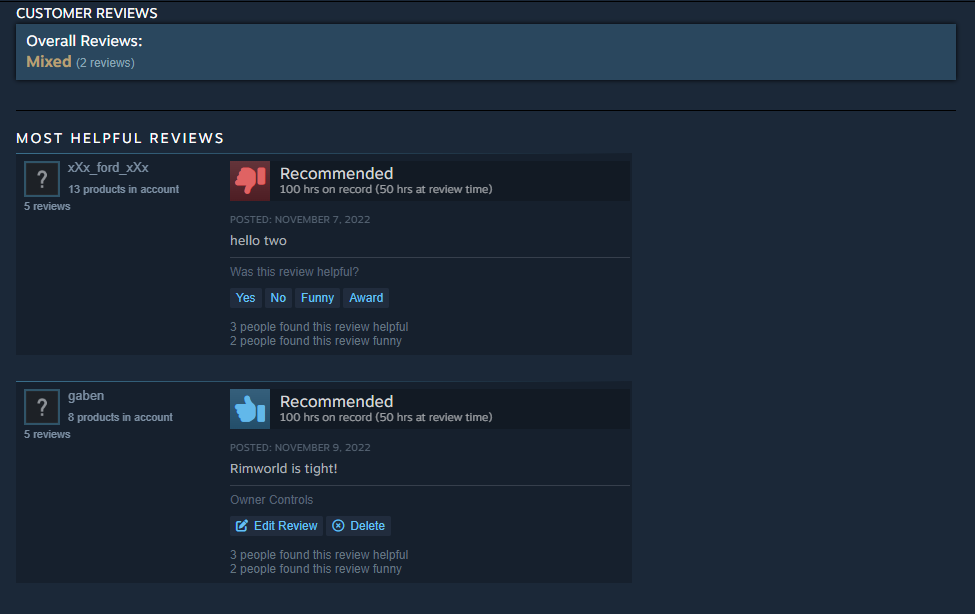
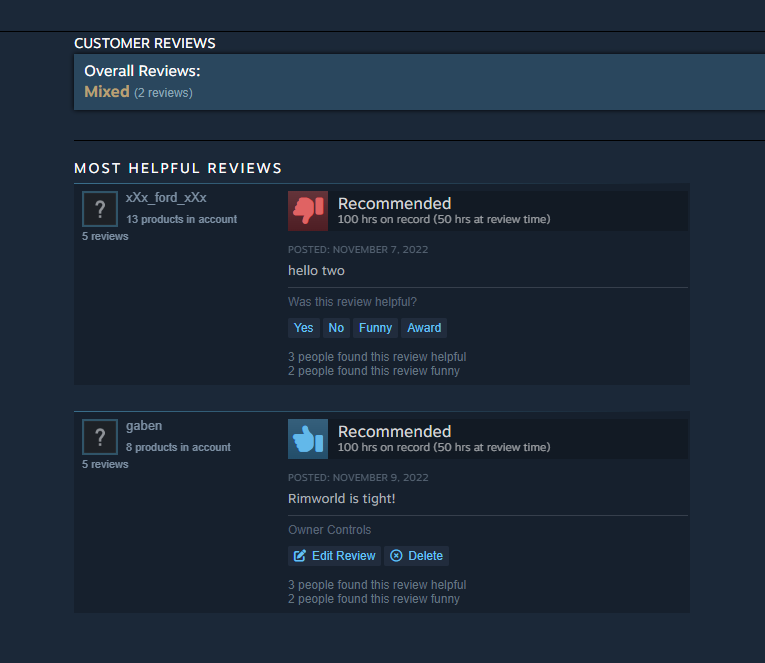
Comment out review voting buttons for future implementation

Changed region(s): [[0.0, 0.0, 1.0, 0.1857], [0.0, 0.2166, 0.7216, 0.5879], [0.0301, 0.6189, 0.7216, 0.9593]]

diff --git a/frontend/src/components/GameShowPage/ReviewsIndex/ReviewTile.js b/frontend/src/components/GameShowPage/ReviewsIndex/ReviewTile.js
@@ -26,13 +26,13 @@ export default function ReviewTile({ review }) {
   
   let reviewControls = (
     <>
-      <h2>Was this review helpful?</h2>
+      {/* <h2>Was this review helpful?</h2>
       <div className="review-controls">
         <button className="light-blue-button">Yes</button>
         <button className="light-blue-button">No</button>
         <button className="light-blue-button">Funny</button>
         <button className="light-blue-button">Award</button>
-      </div>
+      </div> */}
     </>
   )
   if (review.authorId === currentUser.id) {
@@ -89,8 +89,8 @@ export default function ReviewTile({ review }) {
         {reviewTileRight}
         {reviewControls}
         <div className="review-vote-stats">
-          <p>3 people found this review helpful</p>
-          <p>2 people found this review funny</p>
+          {/* <p>3 people found this review helpful</p>
+          <p>2 people found this review funny</p> */}
         </div>
       </div>
     </article>
